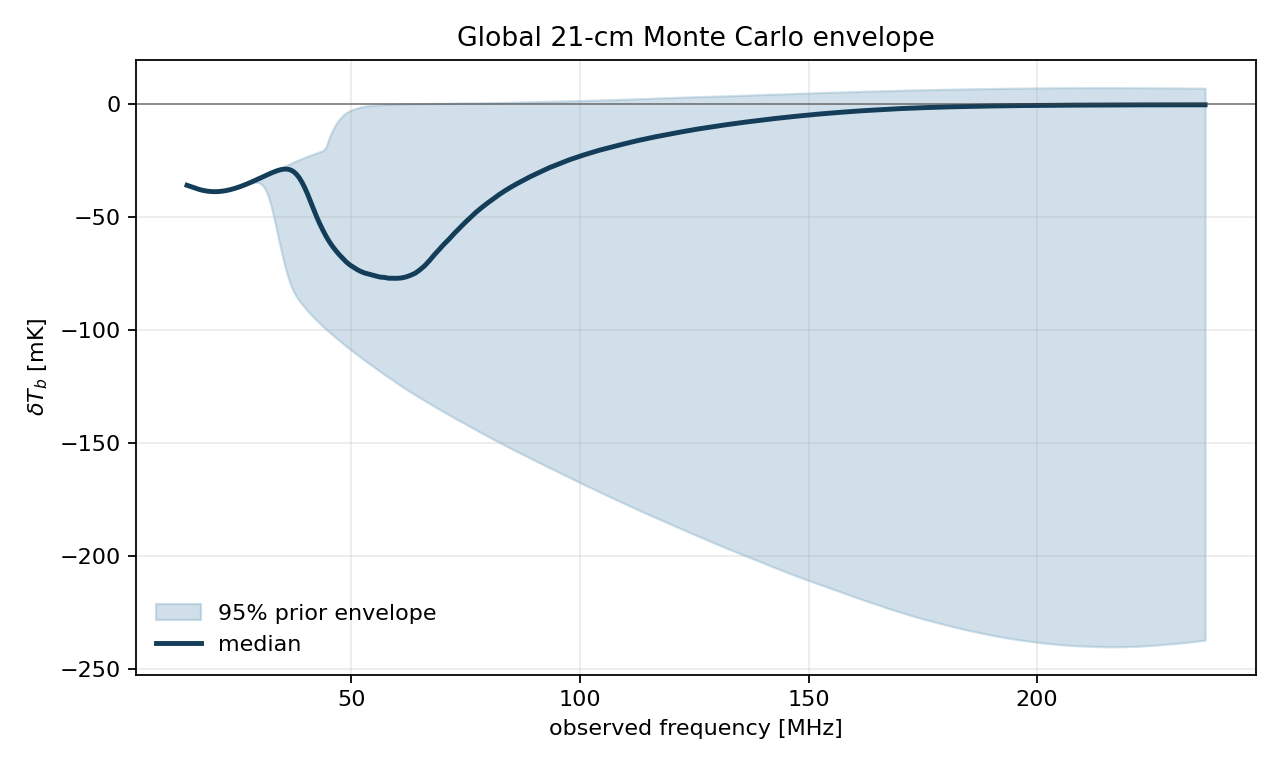
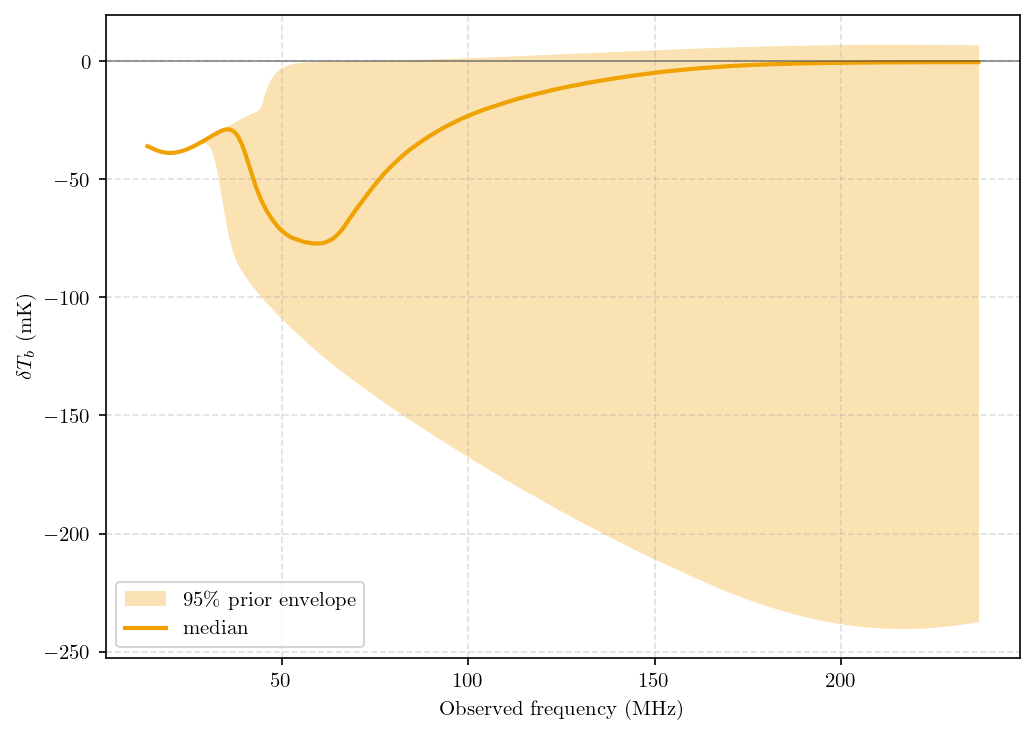
Take BlackJAX from PyPI and draw the example figures in the benchmarks' style
The BBN example's nested slice sampler no longer needs the handley-lab fork of BlackJAX: blackjax.ns has shipped on PyPI since 1.6, so the dev group now asks for blackjax>=1.6 and the lock resolves it to 1.6.2 from the registry, which also retires the note that PyPI would reject the direct URL dependency; the README's citation for it is corrected to the paper's full title and authors. The BBN posterior figure and the 21-cm Monte Carlo envelope are redrawn through the benchmarks' configure_latex_plot_style, in the modax colour with the dashed grid and printed title the benchmark plots use, and the BBN solve tightens its tolerances to rtol 1e-4 and atol 1e-9.

diff --git a/examples/bbn_estimation/main.py b/examples/bbn_estimation/main.py
@@ -3,7 +3,7 @@
 A four-species Big Bang Nucleosynthesis network (n, p, D, 4He) is integrated
 with the Rodas5P kernel solver, with x = Q/T as the independent variable, and
 the baryon-to-photon ratio log10(eta_10) and N_eff are fitted to the observed
-abundances by nested sampling (handley-lab/blackjax). Every likelihood
+abundances by nested slice sampling (BlackJAX). Every likelihood
 evaluation is an independent stiff universe, so the sampler's population is
 one batched ensemble solve. The physics, the statistical model and the
 benchmark are laid out in README.md next to this file.
@@ -25,6 +25,11 @@ import numpy as np
 
 sys.path.insert(0, str(Path(__file__).resolve().parents[2]))
 
+from benchmarks.benchmark_common import (
+    MODAX_COLOR,
+    configure_latex_plot_style,
+    print_plot_title,
+)
 from examples._common import Backends, parse_args, run_benchmark
 from examples.dual_backend import build_fn, build_rhs
 from modax.rodas5P import solve as rodas5P_solve
@@ -176,8 +181,8 @@ BBN_ODE = build_rhs(
 X_SPAN = jnp.array([Q / 10.0, Q / 0.01])  # x: 0.1293 -> 129.3 (T = 0.01 MeV)
 X_SAVE = X_SPAN  # save at start and end only
 
-SOLVER_RTOL = 1e-3
-SOLVER_ATOL = 1e-7
+SOLVER_RTOL = 1e-4
+SOLVER_ATOL = 1e-9
 SOLVER_FIRST_STEP = 0.1
 SOLVER_MAX_STEPS = 256
 
@@ -405,37 +410,38 @@ def run_nested_sampling():
 
 
 def _plot_posterior(w, eta10_samples, neff_samples):
-    fig, axes = plt.subplots(1, 3, figsize=(12, 4))
+    """Posterior scatter and marginals, in the house style of ``benchmarks/``."""
+    configure_latex_plot_style(plt)
+    print_plot_title("BBN posterior from nested slice sampling")
+    fig, axes = plt.subplots(1, 3, figsize=(10.5, 3.5))
 
-    # 2D scatter coloured by weight
+    # 2D scatter coloured by posterior weight
     sc = axes[0].scatter(
         eta10_samples,
         neff_samples,
         c=w,
-        s=2,
+        s=4,
         cmap="viridis",
-        alpha=0.6,
+        alpha=0.7,
+        linewidths=0,
     )
-    plt.colorbar(sc, ax=axes[0], label="weight")
+    fig.colorbar(sc, ax=axes[0], label="Posterior weight")
     axes[0].set_xlabel(r"$\eta_{10}$")
     axes[0].set_ylabel(r"$N_\mathrm{eff}$")
-    axes[0].set_title("Posterior samples")
 
-    # eta_10 marginal
-    axes[1].hist(eta10_samples, weights=w, bins=40, color="steelblue", density=True)
+    # marginals
+    axes[1].hist(eta10_samples, weights=w, bins=40, color=MODAX_COLOR, density=True)
     axes[1].set_xlabel(r"$\eta_{10}$")
-    axes[1].set_ylabel("density")
-    axes[1].set_title(r"Marginal $\eta_{10}$")
-
-    # N_eff marginal
-    axes[2].hist(neff_samples, weights=w, bins=40, color="coral", density=True)
+    axes[1].set_ylabel("Posterior density")
+    axes[2].hist(neff_samples, weights=w, bins=40, color=MODAX_COLOR, density=True)
     axes[2].set_xlabel(r"$N_\mathrm{eff}$")
-    axes[2].set_ylabel("density")
-    axes[2].set_title(r"Marginal $N_\mathrm{eff}$")
+    axes[2].set_ylabel("Posterior density")
 
+    for ax in axes:
+        ax.grid(True, linestyle="--", alpha=0.4)
     fig.tight_layout()
     out = Path(__file__).parent / "posterior.png"
-    fig.savefig(out, dpi=150)
+    fig.savefig(out, dpi=150, bbox_inches="tight")
     print(f"Plot saved to {out}")
     plt.close(fig)
 

diff --git a/examples/21cm_igm_evolution/main.py b/examples/21cm_igm_evolution/main.py
@@ -37,6 +37,11 @@ import numpy as np
 
 sys.path.insert(0, str(Path(__file__).resolve().parents[2]))
 
+from benchmarks.benchmark_common import (
+    MODAX_COLOR,
+    configure_latex_plot_style,
+    print_plot_title,
+)
 from examples._common import Backends, parse_args, run_benchmark
 from examples.dual_backend import build_fn, build_rhs
 from modax.rodas5P import solve as rodas5P_solve
@@ -390,30 +395,36 @@ def summarize(results):
 
 
 def plot_envelope(results, out_path=None):
-    """Plot the Monte Carlo 95% envelope and median global signal."""
+    """Plot the Monte Carlo 95% envelope and median global signal.
+
+    Drawn in the house style of ``benchmarks/``: LaTeX text, a dashed grid,
+    the modax colour, and the title printed rather than set on the figure.
+    """
     if out_path is None:
         out_path = Path(__file__).parent / "global_21cm_envelope.png"
+    configure_latex_plot_style(plt)
+    print_plot_title("Global 21-cm Monte Carlo envelope")
     q025, q50, q975 = results["quantiles_mK"]
     frequency = results["frequency_mhz"]
 
-    fig, ax = plt.subplots(figsize=(8, 4.8))
+    fig, ax = plt.subplots(figsize=(7, 5))
     ax.fill_between(
         frequency,
         q025,
         q975,
-        color="#7aa6c2",
-        alpha=0.35,
-        label="95% prior envelope",
+        color=MODAX_COLOR,
+        alpha=0.3,
+        linewidth=0,
+        label=r"95\% prior envelope",
     )
-    ax.plot(frequency, q50, color="#143d59", lw=2.2, label="median")
+    ax.plot(frequency, q50, color=MODAX_COLOR, lw=2, label="median")
     ax.axhline(0.0, color="0.25", lw=0.8, alpha=0.6)
-    ax.set_xlabel("observed frequency [MHz]")
-    ax.set_ylabel(r"$\delta T_b$ [mK]")
-    ax.set_title("Global 21-cm Monte Carlo envelope")
-    ax.legend(frameon=False)
-    ax.grid(alpha=0.25)
+    ax.set_xlabel("Observed frequency (MHz)")
+    ax.set_ylabel(r"$\delta T_b$ (mK)")
+    ax.grid(True, linestyle="--", alpha=0.4)
+    ax.legend()
     fig.tight_layout()
-    fig.savefig(out_path, dpi=160)
+    fig.savefig(out_path, dpi=150, bbox_inches="tight")
     plt.close(fig)
     return Path(out_path)
 

diff --git a/examples/bbn_estimation/README.md b/examples/bbn_estimation/README.md
@@ -101,4 +101,4 @@ because the $D\to{}^4\mathrm{He}$ path through ${}^3\mathrm{He}$ and $T$ is omit
 3. R. J. Cooke, M. Pettini, C. C. Steidel (2018). *One Percent Determination of the Primordial Deuterium Abundance.* ApJ **855**, 102.
 4. E. Aver, K. A. Olive, E. D. Skillman (2015). *The effects of He I λ10830 on helium abundance determinations.* JCAP **07**, 011.
 5. J. Skilling (2006). *Nested sampling for general Bayesian computation.* Bayesian Analysis **1**, 833.
-6. D. Yallup, M. Kroupa, W. Handley (2026). *Nested slice sampling.* arXiv:2601.23252.
+6. D. Yallup, N. Kroupa, W. Handley (2026). *Nested Slice Sampling: Vectorized Nested Sampling for GPU-Accelerated Inference.* arXiv:2601.23252.
